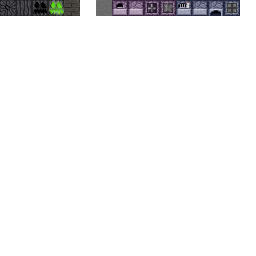
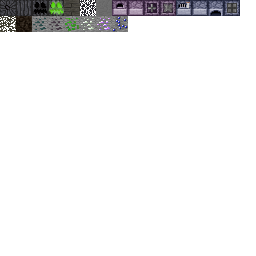
Unfinished features

Changed region(s): [[0.0, 0.0, 0.5, 0.125]]

diff --git a/src/common/seasonal/parade/halloween/Halloween.java b/src/common/seasonal/parade/halloween/Halloween.java
@@ -18,6 +18,7 @@ import net.minecraft.src.GameWindowListener;
 import net.minecraft.src.Item;
 import net.minecraft.src.ItemFood;
 import net.minecraft.src.ItemStack;
+import net.minecraft.src.Material;
 import net.minecraft.src.ModLoader;
 import net.minecraft.src.Potion;
 import net.minecraftforge.common.Configuration;
@@ -82,6 +83,7 @@ public class Halloween {
 //    public static Block candyBasket;
     public static Block Mixer;
     public static Block candyMaker;
+    public static Block rottenLog;
     
  // Item Registry
  	public static Item ashItem;
@@ -154,8 +156,9 @@ public class Halloween {
 		    ash = (new BlockAsh(DefaultProps.ASH_LAYER_ID, 6)).setHardness(0.1F).setStepSound(Block.soundClothFootstep).setBlockName("ash").setLightOpacity(0);
 		    blockAsh = (new BlockAshBlock(DefaultProps.ASH_BLOCK_ID, 6)).setHardness(0.2F).setStepSound(Block.soundClothFootstep).setBlockName("ashBlock");
 //		    candyBasket = (new CandyBasket(DefaultProps.CANDY_BASKET_ID, Material.pumpkin)).setHardness(0.2F).setStepSound(Block.soundWoodFootstep).setBlockName("candyBasket");
-	 		Mixer = new BlockMixer(DefaultProps.MIXER_BLOCK_ID, 7).setHardness(1.0F).setStepSound(Block.soundWoodFootstep).setCreativeTab(CreativeTabs.tabBlock).setBlockName("mixer");
-	 		candyMaker = new BlockCandyMaker(DefaultProps.CANDY_MAKER_ID, 3).setHardness(1.0F).setStepSound(Block.soundWoodFootstep).setCreativeTab(CreativeTabs.tabBlock).setBlockName("candyMaker");
+	 		Mixer = new BlockMixer(DefaultProps.MIXER_BLOCK_ID, 7).setHardness(1.0F).setStepSound(Block.soundStoneFootstep).setCreativeTab(CreativeTabs.tabBlock).setBlockName("mixer");
+	 		candyMaker = new BlockCandyMaker(DefaultProps.CANDY_MAKER_ID, 3).setHardness(1.0F).setStepSound(Block.soundStoneFootstep).setCreativeTab(CreativeTabs.tabBlock).setBlockName("candyMaker");
+	 		rottenLog = new HalloweenBlock(DefaultProps.ROTTEN_LOG_ID, 4, Material.wood).setHardness(1.0F).setStepSound(Block.soundWoodFootstep).setCreativeTab(CreativeTabs.tabBlock).setBlockName("rottenLog");
 
 			
 			
@@ -187,7 +190,7 @@ public class Halloween {
 
 			
 		    RegisterBlocks(new Block[] {
-					evilPumpkin, evilLantern, ash, blockAsh, Mixer, candyMaker
+					evilPumpkin, evilLantern, ash, blockAsh, Mixer, candyMaker, rottenLog
 			});
 			
 			
@@ -202,6 +205,7 @@ public class Halloween {
 //			LanguageRegistry.addName(candyBasket, "Candy Basket");
 			LanguageRegistry.addName(Mixer, "Mixer");
 			LanguageRegistry.addName(candyMaker, "Candy Maker");
+			LanguageRegistry.addName(rottenLog, "Rotten Wood");
 			
 			// Item Names
 			LanguageRegistry.addName(ashItem, "Ash");

diff --git a/src/common/seasonal/parade/halloween/DefaultProps.java b/src/common/seasonal/parade/halloween/DefaultProps.java
@@ -19,8 +19,6 @@ public class DefaultProps {
 	public static final String NET_CHANNEL_NAME = "Halloween";
 
 
-
-
 	public static int NETWORK_UPDATE_RANGE = 128;
 
 	public static String TEXTURE_PATH = "/seasonal/parade/halloween/gfx";
@@ -45,7 +43,10 @@ public class DefaultProps {
 	public static int CANDY_BASKET_ID = 3204;
 	public static int MIXER_BLOCK_ID = 3205;
 	public static int CANDY_MAKER_ID = 3206;
-
+	public static int ROTTEN_LOG_ID = 3207;
+	public static int ROTTEN_LEAVES_ID = 3208;
+	public static int ROTTEN_VINES_ID = 3209;
+	
 	
 	
 	//item ids 15200 - 15500

diff --git a/src/common/seasonal/parade/halloween/HalloweenBlock.java b/src/common/seasonal/parade/halloween/HalloweenBlock.java
@@ -1,0 +1,13 @@
+package seasonal.parade.halloween;
+
+import net.minecraft.src.Block;
+import net.minecraft.src.Material;
+
+public class HalloweenBlock extends Block{
+
+	public HalloweenBlock(int par1, int par2, Material par3Material) {
+		super(par1, par2, par3Material);
+		this.setTextureFile(DefaultProps.TEXTURE_BLOCKS);
+	}
+
+}

diff --git a/src/common/seasonal/parade/halloween/HalloweenVine.java b/src/common/seasonal/parade/halloween/HalloweenVine.java
@@ -1,0 +1,11 @@
+package seasonal.parade.halloween;
+
+import net.minecraft.src.BlockVine;
+
+public class HalloweenVine extends BlockVine{
+
+	public HalloweenVine(int par1) {
+		super(par1);
+	}
+
+}
